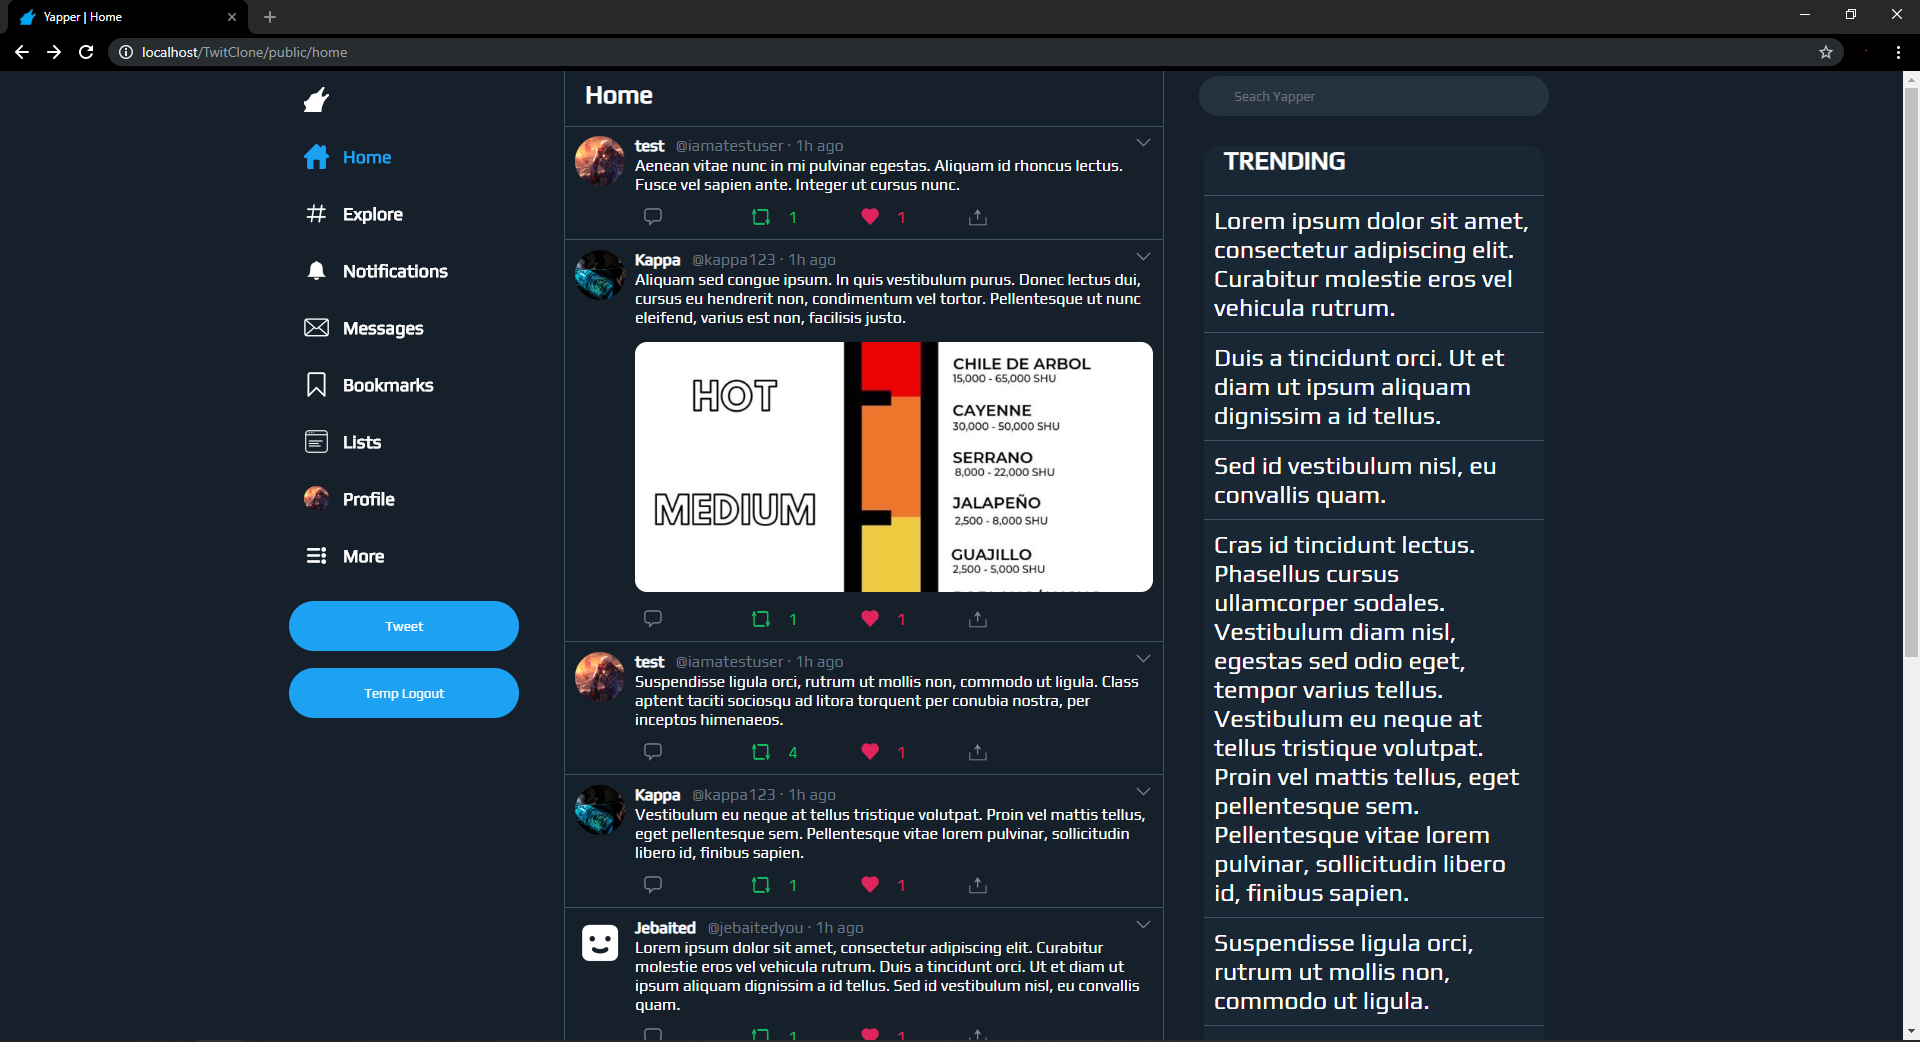
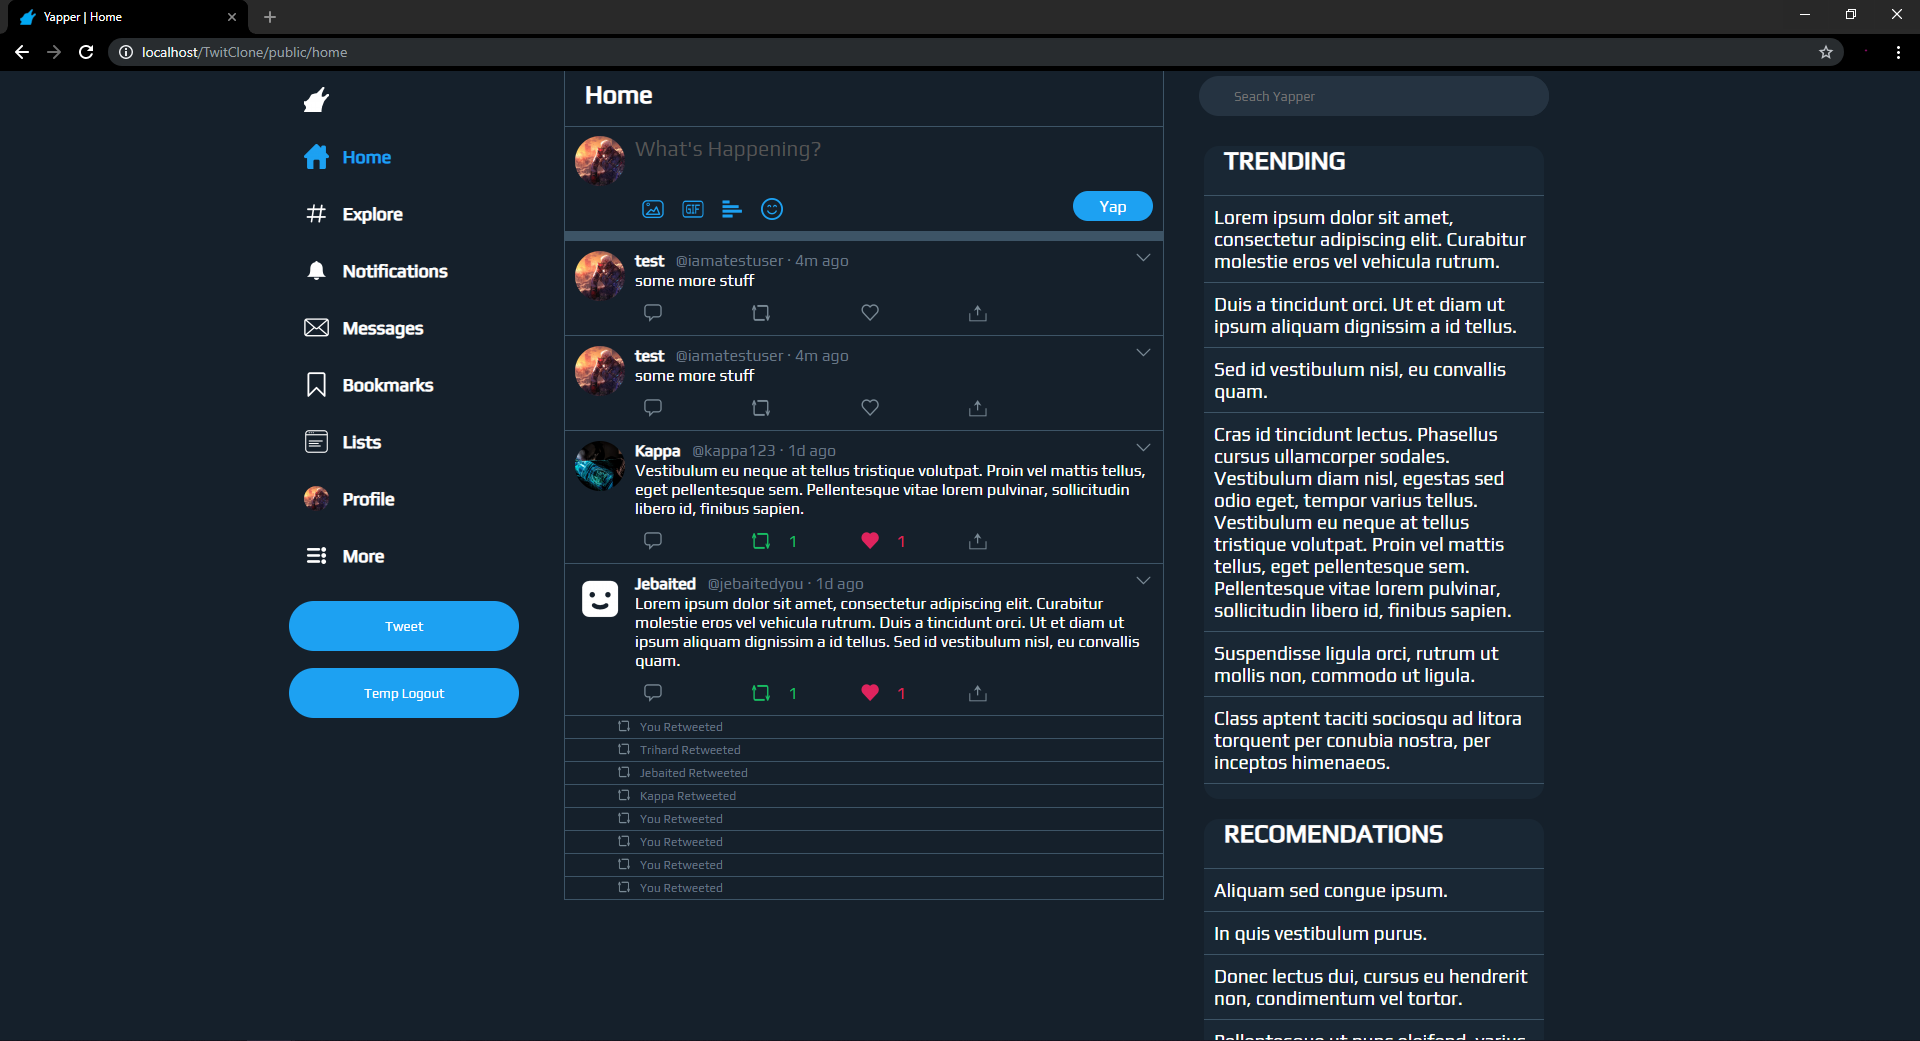
working like and retweet

diff --git a/resources/js/app.js b/resources/js/app.js
@@ -78,8 +78,7 @@ $(document).ready(function(){
     })
 
     $('form[name="deleteForm"]').submit(function(e) {
-        e.preventDefault(); // avoid to execute the actual submit of the form.
-        $('.bigCoverTransparent').trigger('click'); 
+        e.preventDefault(); // avoid to execute the actual submit of the form. 
         var form = $(this);
         var url = form.attr('action'); 
         $.ajax({
@@ -98,6 +97,97 @@ $(document).ready(function(){
                 alert("error :(")
             },
         });    
+    });
+
+    $('form[name="likeForm"]').submit(function(e){        
+        e.preventDefault();
+        var form = $(this);
+        var url = form.attr('action'); 
+        $.ajax({
+            type: "POST",
+            url: url,
+            data: form.serialize(), // serializes the form's elements.
+            success: function(data){
+                var currVal = parseInt(form.find('span').text());
+                if(data === '1'){
+                    form.find('span')[0].classList.add('redText');
+                    if(isNaN(currVal)){
+                        currVal = 1;
+                    }
+                    else{
+                        currVal += 1;
+                    }
+                    console.log(currVal);
+                    form.find('span').text(currVal);
+                    var newSrc = form.find('img')[0].src.replace("Black", "Active");
+                    form.find('img')[0].src = newSrc;
+                }
+                if(data === '0')
+                {
+                    form.find('span')[0].classList.remove('redText');
+                    if(currVal == 1){
+                        currVal = null;
+                    }
+                    else{
+                        currVal -= 1;
+                    }
+                    console.log(currVal);
+                    form.find('span').text(currVal);
+                    var newSrc = form.find('img')[0].src.replace("Active", "Black");
+                    form.find('img')[0].src = newSrc;
+                }
+            },
+            error: function(){
+                alert("error :(")
+            },
+        });
+        
+    });
+
+    $('form[name="retweetForm"]').submit(function(e){        
+        e.preventDefault();
+        var form = $(this);
+        console.log(form);
+        var url = form.attr('action'); 
+        $.ajax({
+            type: "POST",
+            url: url,
+            data: form.serialize(), // serializes the form's elements.
+            success: function(data){
+                var currVal = parseInt(form.find('span').text());
+                if(data === '1'){
+                    form.find('span')[0].classList.add('greenText');
+                    if(isNaN(currVal)){
+                        currVal = 1;
+                    }
+                    else{
+                        currVal += 1;
+                    }
+                    console.log(currVal);
+                    form.find('span').text(currVal);
+                    var newSrc = form.find('img')[0].src.replace("Black", "Active");
+                    form.find('img')[0].src = newSrc;
+                }
+                if(data === '0')
+                {
+                    form.find('span')[0].classList.remove('greenText');
+                    if(currVal == 1){
+                        currVal = null;
+                    }
+                    else{
+                        currVal -= 1;
+                    }
+                    console.log(currVal);
+                    form.find('span').text(currVal);
+                    var newSrc = form.find('img')[0].src.replace("Active", "Black");
+                    form.find('img')[0].src = newSrc;
+                }
+            },
+            error: function(){
+                alert("error :(")
+            },
+        });
+        
     });
 });
 

diff --git a/resources/views/home.blade.php b/resources/views/home.blade.php
@@ -121,7 +121,7 @@
                                 <p>{{ $tweet->content }}</p>                            
                             @endif
                             @if ($tweet->media)
-                            <img alt="loading" class="tweetPicture" onclick="showTweetImg({{ $tweet->id }})" src="{{ route('tweetMedia', ['id' => $tweet->id]) }}">
+                                <img alt="loading" class="tweetPicture" onclick="showTweetImg({{ $tweet->id }})" src="{{ route('tweetMedia', ['id' => $tweet->id]) }}">
                             @endif
                         </div>
                         <div class="tweetContentFooter">
@@ -132,16 +132,24 @@
                                 </div>
                             </div>
                             <div class="tweetFooterItem">
-                                <div class="tweetFooterGreenIconWrapper">
-                                    <img alt="loading" class="tweetFooterIcon" src="{{ route('icon', ['name' => 'retweet', 'state' => $tweet->retweets->where('user_id', auth()->user()->id)->count() === 1 ? 'Active' : 'Black', 'size' => '18']) }}">
-                                    <span class="{{ $tweet->retweets->where('user_id', auth()->user()->id)->count() === 1 ? 'greenText' : '' }} tweetFooterNum">{{ $tweet->retweets->count() === 0 ? '' : $tweet->retweets->count() }}</span>
-                                </div>
+                                <form name="retweetForm" action="{{ route('retweet', ['id' => $tweet->id]) }}" method="POST">
+                                    <div class="tweetFooterGreenIconWrapper" onclick="document.getElementById('retweet{{ $tweet->id }}button').click();">
+                                        <img alt="loading" class="tweetFooterIcon" src="{{ route('icon', ['name' => 'retweet', 'state' => $tweet->retweets->where('user_id', auth()->user()->id)->count() === 1 ? 'Active' : 'Black', 'size' => '18']) }}">
+                                        <span class="{{ $tweet->retweets->where('user_id', auth()->user()->id)->count() === 1 ? 'greenText' : '' }} tweetFooterNum">{{ $tweet->retweets->count() === 0 ? '' : $tweet->retweets->count() }}</span>
+                                    </div>
+                                    @csrf 
+                                    <button id="retweet{{ $tweet->id }}button" hidden></button>
+                                </form>
                             </div>
                             <div class="tweetFooterItem">
-                                <div class="tweetFooterRedIconWrapper">
-                                    <img alt="loading" class="tweetFooterIcon" src="{{ route('icon', ['name' => 'heart', 'state' => $tweet->likes->where('user_id', auth()->user()->id)->count() === 1 ? 'Active' : 'Black', 'size' => '18']) }}">
-                                    <span class="{{ $tweet->likes->where('user_id', auth()->user()->id)->count() === 1 ? 'redText' : '' }} tweetFooterNum">{{ $tweet->likes->count() === 0 ? '' : $tweet->likes->count() }}</span>
-                                </div>
+                                <form name="likeForm" action="{{ route('like', ['id' => $tweet->id]) }}" method="POST">
+                                    <div class="tweetFooterRedIconWrapper" onclick="document.getElementById('like{{ $tweet->id }}button').click();">
+                                        <img alt="loading" class="tweetFooterIcon" src="{{ route('icon', ['name' => 'heart', 'state' => $tweet->likes->where('user_id', auth()->user()->id)->count() === 1 ? 'Active' : 'Black', 'size' => '18']) }}">
+                                        <span class="{{ $tweet->likes->where('user_id', auth()->user()->id)->count() === 1 ? 'redText' : '' }} tweetFooterNum">{{ $tweet->likes->count() === 0 ? '' : $tweet->likes->count() }}</span>
+                                    </div>
+                                    @csrf
+                                    <button id="like{{ $tweet->id }}button" hidden></button>
+                                </form>
                             </div>
                             <div class="tweetFooterItem">
                                 <div class="tweetFooterIconWrapper">

diff --git a/app/Http/Controllers/RetweetController.php b/app/Http/Controllers/RetweetController.php
@@ -1,0 +1,32 @@
+<?php
+
+namespace App\Http\Controllers;
+
+use App\Models\Yap;
+use Illuminate\Http\Request;
+
+class RetweetController extends Controller
+{
+    public function __construct()
+    {
+        $this->middleware('auth');
+    }
+
+    public function retweet($id){
+        $retweet = Yap::where([
+            ['user_id', auth()->user()->id],
+            ['retweet_of', $id],
+        ])->delete();
+        if($retweet){
+            echo '0';
+        }
+        else{
+            Yap::create([
+                'user_id' => auth()->user()->id,
+                'content' => null,
+                'retweet_of' => $id,
+            ]);
+            echo '1';
+        }
+    }
+}

diff --git a/app/Http/Controllers/LikeController.php b/app/Http/Controllers/LikeController.php
@@ -1,0 +1,31 @@
+<?php
+
+namespace App\Http\Controllers;
+
+use App\Models\Like;
+use Illuminate\Http\Request;
+
+class LikeController extends Controller
+{
+    public function __construct()
+    {
+        $this->middleware('auth');
+    }
+
+    public function like($id){
+        $like = Like::where([
+            ['user_id', auth()->user()->id],
+            ['yap_id', $id],
+        ])->delete();
+        if($like){
+            echo '0';
+        }
+        else{
+            Like::create([
+                'user_id' => auth()->user()->id,
+                'yap_id' => $id,
+            ]);
+            echo '1';
+        }
+    }
+}

diff --git a/database/migrations/2019_09_05_184712_create_yaps_table.php b/database/migrations/2019_09_05_184712_create_yaps_table.php
@@ -16,7 +16,7 @@ class CreateYapsTable extends Migration
         Schema::create('yaps', function (Blueprint $table) {
             $table->bigIncrements('id');
             $table->integer('user_id')->unsigned();
-            $table->string('content');
+            $table->string('content')->nullable();
             $table->string('media', 100)->nullable();
             $table->bigInteger('retweet_of')->unsigned()->nullable();
             $table->bigInteger('reply_of')->unsigned()->nullable();

diff --git a/routes/web.php b/routes/web.php
@@ -27,7 +27,10 @@ Route::get('/{name}', 'ProfileController@index')->name('profile');
 
 Route::resource('yap', 'YapController');
 
+Route::post('/like/{id}', 'LikeController@like')->name('like');
+Route::post('/retweet/{id}', 'RetweetController@retweet')->name('retweet');
 Route::post('/pfupload', 'UploadsController@pfupload')->name('profileUpload.post');
+
 
 Route::prefix('asset')->group(function(){
     Route::get('icon/{name}/{state?}/{size?}', 'AssetController@icon')->name('icon');

diff --git a/app/Models/ListSubscription.php b/app/Models/ListSubscription.php
@@ -8,7 +8,7 @@ use Illuminate\Database\Eloquent\Model;
 class ListSubscription extends Model
 {
     protected $guarded = [];
-    
+    public $timestamps = false;
 
     public function list(){
         return $this->belongsTo('App\Models\List');

diff --git a/app/Models/Follow.php b/app/Models/Follow.php
@@ -7,7 +7,8 @@ use Illuminate\Database\Eloquent\Model;
 class Follow extends Model
 {
     protected $guraded = [];
-
+    public $timestamps = false;
+    
     public function follower(){
         return $this->hasOne('App\User');
     }

diff --git a/app/Models/Poll.php b/app/Models/Poll.php
@@ -8,9 +8,7 @@ use Illuminate\Database\Eloquent\Model;
 class Poll extends Model
 {
     protected $guarded = [];
-    
-
-
+    public $timestamps = false;
 
     public function yap(){
         return $this->belongsTo('App\Models\Yap');

diff --git a/app/Models/Hashtag.php b/app/Models/Hashtag.php
@@ -8,7 +8,7 @@ use Illuminate\Database\Eloquent\Model;
 class Hashtag extends Model
 {
     protected $guarded = [];
-
+    public $timestamps = false;
 
     public function tags(){
         return $this->belongsTo('App\Models\Tag');

diff --git a/app/Models/Bookmark.php b/app/Models/Bookmark.php
@@ -8,7 +8,7 @@ use Illuminate\Database\Eloquent\Model;
 class Bookmark extends Model
 {
     protected $guarded = [];
-    
+    public $timestamps = false;
 
     public function user(){
         return $this->belongsTo('App\User');

diff --git a/app/Models/Tag.php b/app/Models/Tag.php
@@ -8,9 +8,7 @@ use Illuminate\Database\Eloquent\Model;
 class Tag extends Model
 {
     protected $guarded = [];
-
-
-
+    public $timestamps = false;
 
     public function yap(){
         return $this->belongsTo('App\Models\Yap');
